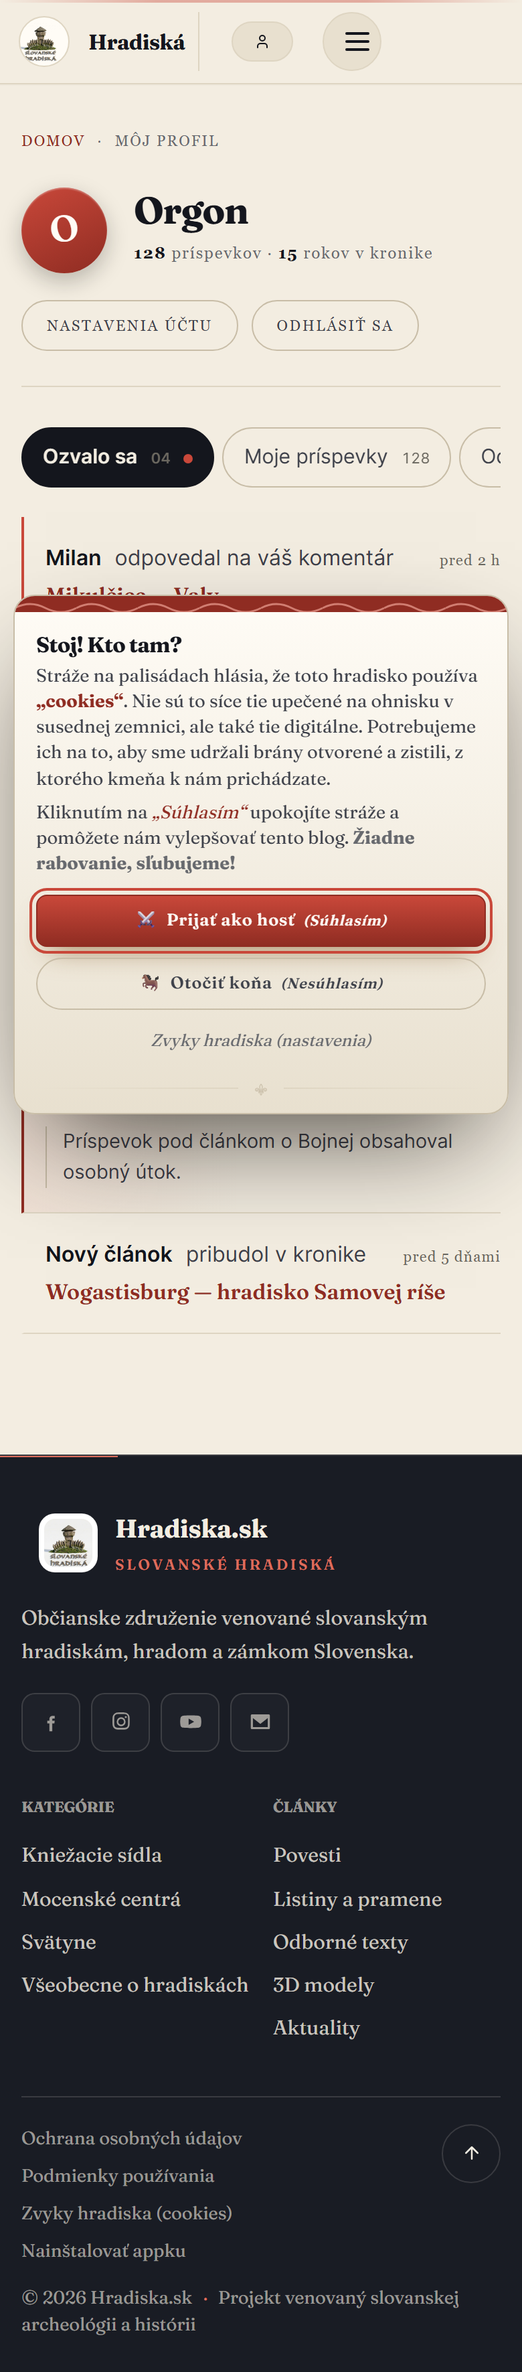
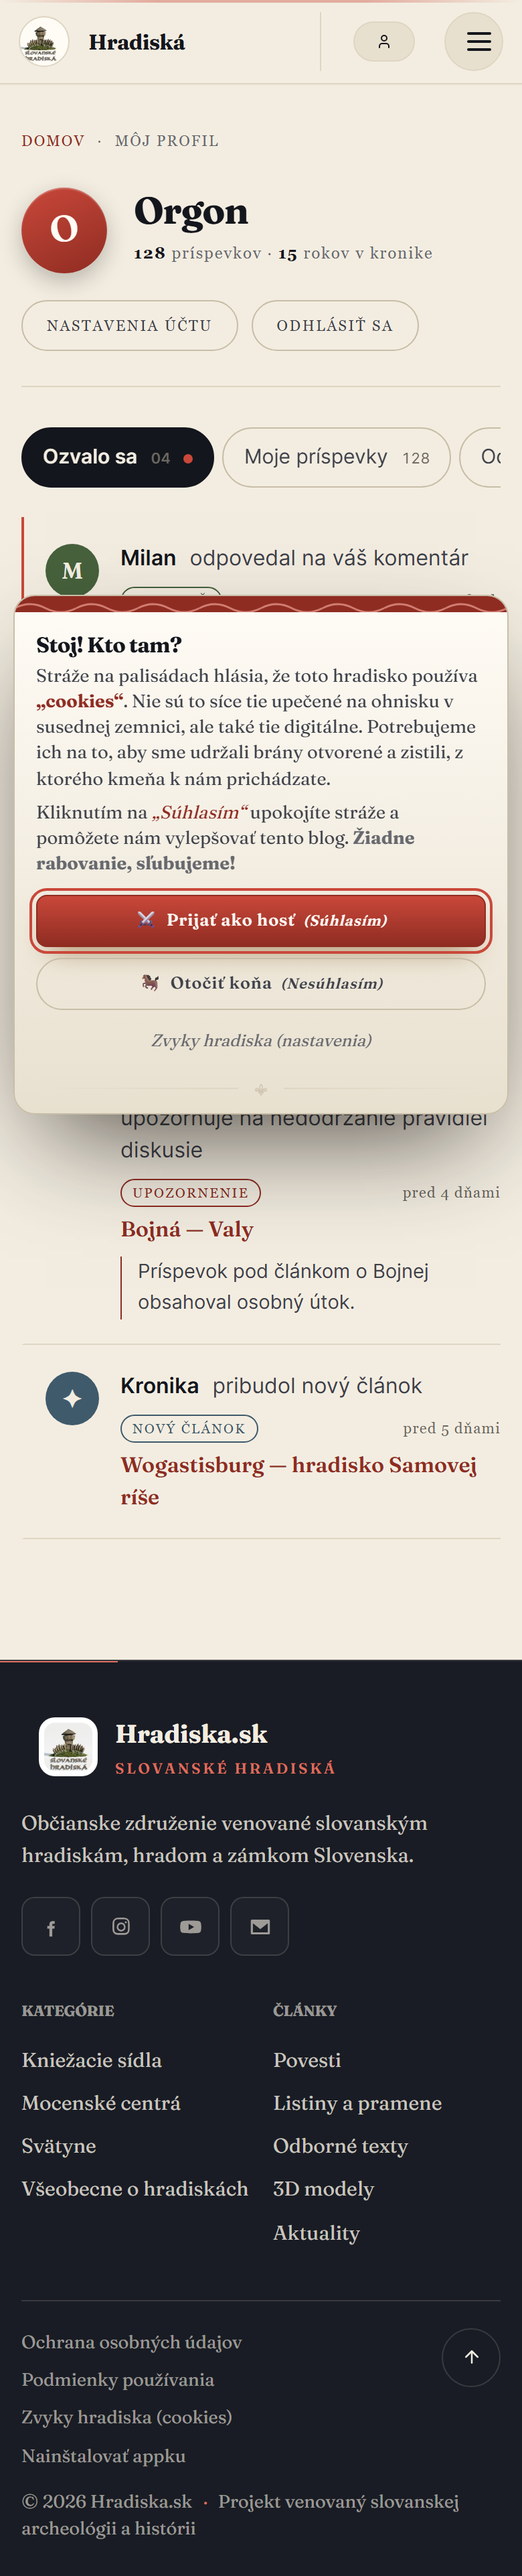
feat(profil): ozvy dostali farbu podla druhu
Zoznam bol necitatelny nie preto, ze by mu chybal obsah, ale preto, ze
vsetky zaznamy mali rovnaky tvar a jedina farba na stranke — pecatna cervena
— bola pouzita na odkazy, prucky aj bodky naraz. Nic potom nerozlisovalo
odpoved od ocenenia a upozornenie od oznamu; cely register bol jeden sivy pas.

Kazdy druh ozvy ma teraz vlastnu farbu a nie nahodnu — su to odtiene z tej
istej krajiny, aku ukazuje titulna ilustracia:

  odpoved     trava        #46613c
  ocenenie    okrova zem   #75591c
  upozornenie pecat        #8f2c22
  novy clanok rieka        #3f5a6b

Kazdy zaznam dostal terc s inicialou pisatela (pri systemovych ozvach znak)
a stitok s nazvom druhu. Farba sedi LEN na terci, stitku a vlaskovej ciare
citatu — telo ostava cierne na papieri. Prefarbit aj text by z registra
spravilo pestrofarebny zoznam, ktory sa cita horsie nez ten jednofarebny.

Cerveny prucok pri lavom okraji ostava vyhradeny jedinej veci: ze je ozva
NOVA. Keby ho prebrali druhy, prestal by o novosti hovorit.

Overene meranim, nie odhadom — pismo na terci a stitok na papieri:
  odpoved 5,93:1 · ocenenie 5,63:1 · upozornenie 7,06:1 · novy clanok 6,24:1
pri poziadavke 4,5. profil-kontrast.mjs: 0 poruseni vo vsetkych piatich
castiach registra.

diff --git a/src/pages/ProfilePage.tsx b/src/pages/ProfilePage.tsx
@@ -223,7 +223,30 @@ export function ProfilePage() {
 
 /* ══════════════════════════════════════════════════════════════════════════
    OZVALO SA
+
+   Zoznam bol nečitateľný nie preto, že by mu chýbal obsah, ale preto, že
+   všetky záznamy mali rovnaký tvar a jediná farba na stránke — pečatná
+   červená — bola použitá na odkazy, prúžky aj bodky naraz. Nič potom
+   nerozlišovalo odpoveď od ocenenia a upozornenie od oznamu.
+
+   Každý druh ozvy má teraz vlastnú farbu, a nie náhodnú: sú to odtiene
+   z tej istej krajiny, akú ukazuje titulná ilustrácia — tráva, okrová zem,
+   pečať a rieka. Farba sedí na terči s iniciálou a na štítku druhu; telo
+   záznamu ostáva čierne na papieri, takže sa neprefarbuje text.
+
+   Červený prúžok pri ľavom okraji ostáva vyhradený JEDINEJ veci: že je ozva
+   nová. Keby ho prebrali druhy, prestal by o novosti hovoriť.
    ══════════════════════════════════════════════════════════════════════════ */
+
+type DruhOzvy = 'reply' | 'like' | 'warning' | 'post';
+
+const DRUH: Record<DruhOzvy, { stitok: string; znak: string }> = {
+  reply:   { stitok: 'Odpoveď',      znak: '↩' },
+  like:    { stitok: 'Ocenenie',     znak: '♥' },
+  warning: { stitok: 'Upozornenie',  znak: '!' },
+  post:    { stitok: 'Nový článok',  znak: '✦' },
+};
+
 function Ozvy({ items }: { items: NotificationItem[] | null }) {
   if (items === null) return <Kostra n={3} />;
   if (!items.length) {
@@ -233,6 +256,7 @@ function Ozvy({ items }: { items: NotificationItem[] | null }) {
   return (
     <ul className="lprof-zoznam">
       {items.map((n) => {
+        const druh = (DRUH[n.type as DruhOzvy] ? n.type : 'post') as DruhOzvy;
         const kto = n.actor?.displayName || n.actor?.username || 'Niekto';
         const nazov = n.post?.title || n.aktualita?.nazov || '';
         const kFotke = !!(n.photoComment || n.fileId);
@@ -241,34 +265,51 @@ function Ozvy({ items }: { items: NotificationItem[] | null }) {
           : n.aktualita ? '/aktuality' : null;
         const viac = n.aggregateCount > 1;
 
+        /* Kto sa ozval a čo urobil. Pri systémových ozvách nie je nikto —
+           terč vtedy nesie znak, nie iniciálu. */
         let ktoText = kto;
         let coText = 'sa ozval';
-        if (n.type === 'reply') {
+        let osoba = true;
+        if (druh === 'reply') {
           coText = kFotke ? 'odpovedal na váš komentár k fotografii' : 'odpovedal na váš komentár';
-        } else if (n.type === 'like') {
+        } else if (druh === 'like') {
           ktoText = viac ? `${n.aggregateCount} čitateľov` : kto;
           coText = `${viac ? 'ocenilo' : 'ocenil'} váš komentár${kFotke ? ' k fotografii' : ''}`;
-        } else if (n.type === 'warning') {
+          osoba = !viac;
+        } else if (druh === 'warning') {
           ktoText = 'Správca';
           coText = 'upozorňuje na nedodržanie pravidiel diskusie';
-        } else if (n.type === 'post') {
-          ktoText = 'Nový článok';
-          coText = 'pribudol v kronike';
+          osoba = false;
+        } else {
+          ktoText = 'Kronika';
+          coText = 'pribudol nový článok';
+          osoba = false;
         }
 
-        const citat = n.type === 'post' ? null : (n.comment?.content || n.photoComment?.content || n.text);
+        const citat = druh === 'post' ? null : (n.comment?.content || n.photoComment?.content || n.text);
 
         return (
-          <li key={n.documentId} className={`lprof-zaznam${!n.read ? ' is-nove' : ''}${n.type === 'warning' ? ' je-vystraha' : ''}`}>
-            <div className="lprof-riadok">
-              <span className="lprof-kto">{ktoText}</span>
-              <span className="lprof-co">{coText}</span>
-              <span className="lprof-kedy">{kedy(n.createdAt)}</span>
+          <li
+            key={n.documentId}
+            className={`lprof-zaznam lprof-ozva${!n.read ? ' is-nove' : ''}`}
+            data-druh={druh}
+          >
+            <span className="lprof-terc" aria-hidden="true">
+              {osoba ? iniciala(ktoText) : DRUH[druh].znak}
+            </span>
+
+            <div className="lprof-ozva-telo">
+              <div className="lprof-riadok">
+                <span className="lprof-kto">{ktoText}</span>
+                <span className="lprof-co">{coText}</span>
+                <span className="lprof-druh">{DRUH[druh].stitok}</span>
+                <span className="lprof-kedy">{kedy(n.createdAt)}</span>
+              </div>
+              {nazov && (odkaz
+                ? <a className="lprof-kde" href={odkaz}>{nazov}</a>
+                : <span className="lprof-kde">{nazov}</span>)}
+              {citat && <p className="lprof-citat">{citat}</p>}
             </div>
-            {nazov && (odkaz
-              ? <a className="lprof-kde" href={odkaz}>{nazov}</a>
-              : <span className="lprof-kde">{nazov}</span>)}
-            {citat && <p className="lprof-citat">{citat}</p>}
           </li>
         );
       })}

diff --git a/src/design-lab/theme.css b/src/design-lab/theme.css
@@ -2918,12 +2918,47 @@ body[data-lab-theme] .pl-act {
 }
 .lprof-nove { width: 7px; height: 7px; border-radius: 50%; background: var(--l-second); flex: none; }
 
+/* ── Farby druhov ozvy ────────────────────────────────────────────────────
+   Nie sú vybrané náhodne: sú to odtiene z tej istej krajiny, akú ukazuje
+   titulná ilustrácia — tráva, okrová zem, pečať a rieka. Každá je dosť tmavá
+   na to, aby na nej papierové písmo prešlo normou (merané, nie odhadnuté).
+
+   Farba druhu sedí LEN na terči a na štítku. Telo záznamu ostáva čierne na
+   papieri — prefarbovať aj text by z registra spravilo pestrofarebný zoznam,
+   ktorý sa číta horšie než ten jednofarebný. */
+.lprof-ozva[data-druh='reply']   { --druh: #46613c; }   /* tráva */
+.lprof-ozva[data-druh='like']    { --druh: #75591c; }   /* okrová zem */
+.lprof-ozva[data-druh='warning'] { --druh: #8f2c22; }   /* pečať */
+.lprof-ozva[data-druh='post']    { --druh: #3f5a6b; }   /* rieka */
+
+/* Terč s iniciálou pisateľa; pri systémových ozvách nesie znak. Je to jediné
+   miesto, kde má farba plochu — oko podľa nej beží zoznamom dole. */
+.lprof-ozva { display: grid; grid-template-columns: 40px minmax(0, 1fr); gap: 16px; align-items: start; }
+.lprof-terc {
+  width: 40px; height: 40px; margin-top: 2px;
+  display: grid; place-items: center; border-radius: 50%;
+  background: var(--druh, var(--l-second-deep));
+  color: var(--l-on-dark-2);
+  font-family: 'Fraunces', Georgia, serif; font-size: 17px; font-weight: 600;
+  line-height: 1;
+}
+.lprof-druh {
+  font-family: var(--mono); font-size: 10px; letter-spacing: .12em;
+  text-transform: uppercase; color: var(--druh, var(--l-muted));
+  border: 1px solid currentColor; border-radius: 999px; padding: 2px 8px;
+  white-space: nowrap;
+}
+.lprof-ozva .lprof-citat { border-left-color: var(--druh, var(--l-line-2)); }
+.lprof-ozva-telo { min-width: 0; }
+
 /* Záznamy — register po riadkoch, nie kôpka kariet. */
 .lprof-zoznam { list-style: none; margin: 0; padding: 0; }
 .lprof-zaznam {
   padding: 18px 0 18px 16px; border-bottom: 1px solid var(--l-line);
   border-left: 2px solid transparent;
 }
+/* Prúžok pri ľavom okraji ostáva vyhradený JEDINEJ veci: že je ozva nová.
+   Keby ho prebrali druhy, prestal by o novosti hovoriť. */
 .lprof-zaznam.is-nove { border-left-color: var(--l-second); }
 .lprof-riadok { display: flex; align-items: baseline; gap: 10px; flex-wrap: wrap; }
 .lprof-kto { font-family: 'Inter', sans-serif; font-weight: 600; color: var(--l-ink); }
